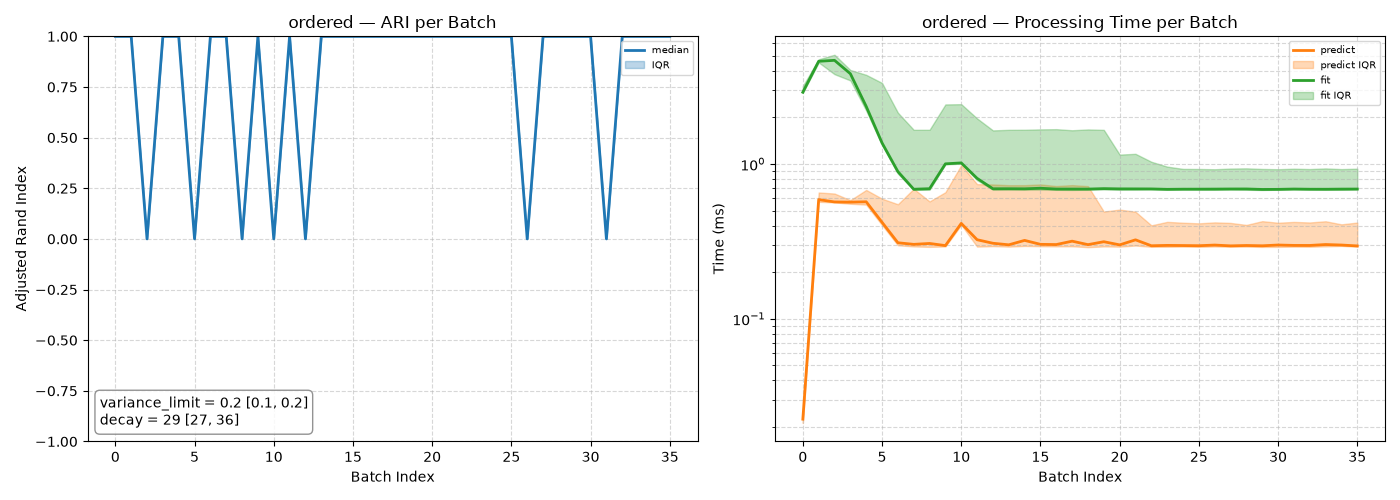
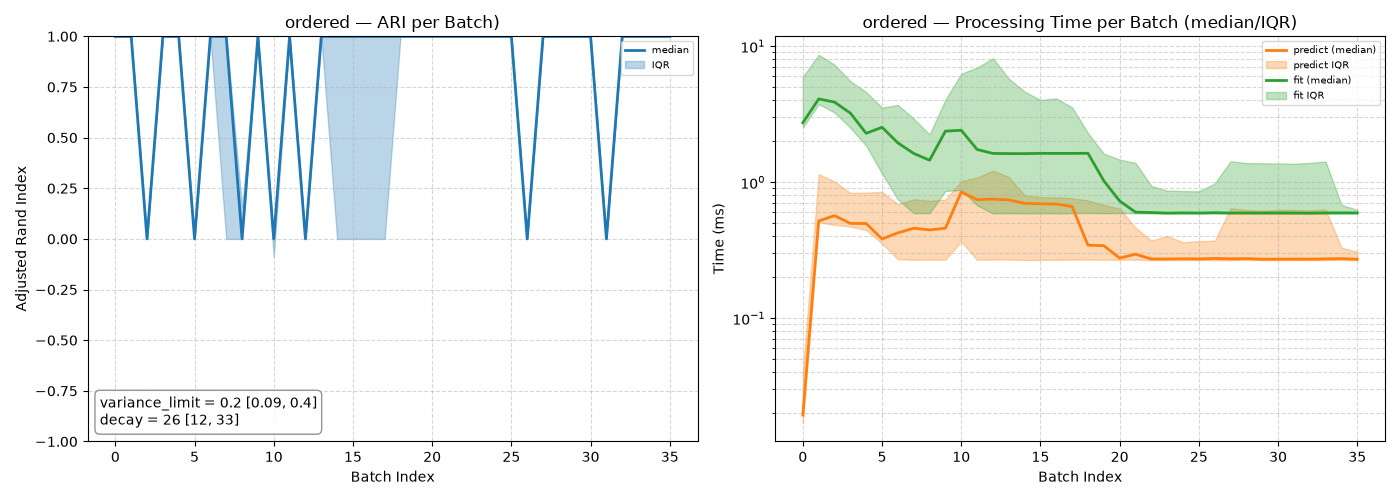
Update .gitignore and refine analysis script; adjust metrics visualization and improve documentation

diff --git a/monografia/MethodologyReassessment/MethodologyReassessment.tex b/monografia/MethodologyReassessment/MethodologyReassessment.tex
@@ -490,7 +490,7 @@ The original \textbf{DS4} dataset is loaded from \url{https://raw.githubusercont
     \label{fig:raw_ds4}
 \end{figure}
 
-\cref{fig:raw_metrics} shows the evolution of the adjusted rand index and the execution time of the microTEDAclus model over 100-sample batches of the original \textbf{DS4} dataset. An ARI of 1.0 indicates perfect clustering, while an ARI of 0.0 indicates random clustering. It is clear that, for the original dataset, the model's score is significantly lower than the one reported in the original work, kept around 0.25 throughout the entire stream. The time spent on the fitting stage is stable at nearly 200 milliseconds per batch, while the prediction stage's duration increases over time, reaching nearly 10 milliseconds per batch at the end of the stream.
+\cref{fig:raw_metrics} shows the evolution of the adjusted rand index and the execution time of the microTEDAclus model over 100-sample batches of the original \textbf{DS4} dataset. An ARI of 1.0 indicates perfect clustering, while an ARI of 0.0 indicates random clustering. It is clear that, for the original dataset, the model's score is significantly lower than the one reported in the original work, kept around 0.25 throughout the entire stream. The time spent on the fitting stage is stable at nearly 400 milliseconds per batch, while the prediction stage's duration increases over time, reaching nearly 20 milliseconds per batch at the end of the stream.
 
 \begin{figure}[thpb]
     \centering
@@ -510,7 +510,7 @@ The noise removal step is performed by filtering out the samples labeled as \tex
     \label{fig:noise_removed_ds4}
 \end{figure}
 
-\cref{fig:noise_removed_metrics} shows a slight increase in the ARI of the microTEDAclus model over the noise-removed dataset, which reaches nearly 0.5 from batches 10 to 20, but then drops to nearly 0.25 for the rest of the stream. The execution time is also slightly reduced, with the fit stage taking right under 200 milliseconds per batch and the prediction stage taking nearly 5 milliseconds per batch at the end of the stream.
+\cref{fig:noise_removed_metrics} shows a slight increase in the ARI of the microTEDAclus model over the noise-removed dataset, which reaches nearly 0.5 from batches 10 to 20, but then drops to nearly 0.25 for the rest of the stream. The execution time is also slightly reduced, with the fit stage 300 milliseconds per batch and the prediction stage taking nearly 10 milliseconds per batch at the end of the stream.
 
 \begin{figure}[thpb]
     \centering
@@ -532,7 +532,7 @@ Downsampling, on the other hand, does not necessarily constitute a form of data 
     \label{fig:downsampled_ds4}
 \end{figure}
 
-The curves in \cref{fig:downsampled_metrics} show that downsampling had little impact on the ARI of the microTEDAclus model, which slightly decreased to nearly 0.2. Simillarly, the execution time's upper bounds only slightly decreased.
+The curves in \cref{fig:downsampled_metrics} show that downsampling had negative impact on the ARI of the microTEDAclus model, which decreased to nearly 0.2. Execution time, however, is significantly reduced. Fitting is performed in approximately 200 milliseconds per batch, and prediction is performed in less than 5 milliseconds through the majority of the stream.
 
 \begin{figure}[thpb]
     \centering
@@ -559,7 +559,7 @@ The scaling step is performed by applying a min-max normalization to the feature
     \label{fig:scaled_metrics}
 \end{figure}
 
-\cref{fig:scaled_metrics} shows that scaling recovers the ARI of the microTEDAclus model to over 0.25 for most batches, and significantly reduces the execution time. Fitting is performed in approximately 10 milliseconds per batch, while prediction is performed in less than 2 milliseconds per batch. More importantly, scaling shifts the optimal parameter \texttt{variance\_limit} from $1 < r_0 < 10$ to $0.01 < r_0 < 0.1$. This contradicts the original work's claim that the model is robust to the choice of this parameter, since it is highly dependent on the scale of the data.
+\cref{fig:scaled_metrics} shows that scaling recovers the ARI of the microTEDAclus model to over 0.25 for most batches, and significantly reduces the execution time. Fitting is performed in approximately 20 milliseconds per batch, while prediction is performed in approximately2 milliseconds per batch. More importantly, scaling shifts the optimal parameter \texttt{variance\_limit} from $1 < r_0 < 10$ to $0.01 < r_0 < 0.1$. This contradicts the original work's claim that the model is robust to the choice of this parameter, since it is highly dependent on the scale of the data.
 
 Scalling is a common preprocessing step in machine learning, and it is expected to be performed in any real-world application of the microTEDAclus model. However, it is important to note that the way it is performed in the original work's experiments, in which the minimum and maximum values of the features are computed over the entire dataset, constitutes a form of data leakage.
 

diff --git a/experimentos/preprocessing/analyze_preprocessing_results.py b/experimentos/preprocessing/analyze_preprocessing_results.py
@@ -5,15 +5,12 @@ Preprocessing-impact experiment — ANALYSIS stage.
 
 Loads the per-run results persisted by run_preprocessing_experiment.py from
 ./results/ (one CSV of per-batch curves + one params JSON per (stage, run))
-and, for each stage, produces two separate metric figures — one per
-statistical pair, as in the earlier convergence-investigation scripts:
+and, for each stage, produces one metric figure:
 
-    {stage}_metrics_medianiqr.png   median line + IQR (Q1-Q3) band
-    {stage}_metrics_meanstd.png     mean line + mean +/- std band
+    {stage}_metrics.png   median line + IQR (Q1-Q3) band
 
-No combined figure is produced; the two pairs are kept in separate plots.
 Tuned-hyperparameter summaries (median [Q1,Q3] for numeric, mode for
-categorical) are shown as text on both figures.
+categorical) are shown as text on the figure.
 """
 
 import glob
@@ -91,7 +88,7 @@ def load_stage(stage):
 
 
 # --------------------------------------------------------------------------
-# Aggregation — both statistical pairs
+# Aggregation
 # --------------------------------------------------------------------------
 def aggregate_curves_medianiqr(arr_list):
     """arr_list: list of 1D arrays of equal length (may contain NaNs for
@@ -103,17 +100,6 @@ def aggregate_curves_medianiqr(arr_list):
         q1 = np.nanpercentile(stacked, 25, axis=0)
         q3 = np.nanpercentile(stacked, 75, axis=0)
     return median, q1, q3
-
-
-def aggregate_curves_meanstd(arr_list):
-    """arr_list: list of 1D arrays of equal length (may contain NaNs for
-    failed runs). Returns (mean, mean-std, mean+std) along the run axis,
-    ignoring NaNs."""
-    stacked = np.vstack(arr_list)
-    with np.errstate(all="ignore"):
-        mean = np.nanmean(stacked, axis=0)
-        std = np.nanstd(stacked, axis=0, ddof=1)
-    return mean, mean - std, mean + std
 
 
 def aggregate_params(params_runs):
@@ -154,25 +140,24 @@ def format_params_text(param_summary, n_valid, n_runs):
 
 
 # --------------------------------------------------------------------------
-# Plotting — one figure per statistical pair
+# Plotting
 # --------------------------------------------------------------------------
 def _plot_metrics(
-    center_label,
     ari_stats,
     t_predict_stats,
     t_fit_stats,
     params_text,
     stage,
     out_dir,
-    suffix,
 ):
-    """center_label: 'median' or 'mean'; *_stats: (center, lower, upper) tuples."""
+    """*_stats: (median, q1, q3) tuples."""
     ari_c, ari_lo, ari_hi = ari_stats
     tp_c, tp_lo, tp_hi = t_predict_stats
     tf_c, tf_lo, tf_hi = t_fit_stats
     batches = np.arange(len(ari_c))
 
-    band_label = "IQR" if center_label == "median" else "mean +/- std"
+    center_label = "median"
+    band_label = "IQR"
 
     fig, axes = plt.subplots(1, 2, figsize=(14, 5))
 
@@ -180,7 +165,7 @@ def _plot_metrics(
     axes[0].fill_between(
         batches, ari_lo, ari_hi, color="tab:blue", alpha=0.3, label=band_label
     )
-    axes[0].set_title(f"{stage} — ARI per Batch ({center_label}/{band_label})")
+    axes[0].set_title(f"{stage} — ARI per Batch)")
     axes[0].set_xlabel("Batch Index")
     axes[0].set_ylabel("Adjusted Rand Index")
     axes[0].set_ylim(-1.0, 1.0)
@@ -230,33 +215,18 @@ def _plot_metrics(
     axes[1].grid(True, which="both", linestyle="--", alpha=0.5)
 
     plt.tight_layout()
-    fig.savefig(os.path.join(out_dir, f"{stage}_metrics_{suffix}.png"))
+    fig.savefig(os.path.join(out_dir, f"{stage}_metrics.png"))
     plt.close(fig)
 
 
-def plot_metrics_medianiqr(ari_runs, tp_runs, tf_runs, params_text, stage, out_dir):
+def plot_metrics(ari_runs, tp_runs, tf_runs, params_text, stage, out_dir):
     _plot_metrics(
-        "median",
         aggregate_curves_medianiqr(ari_runs),
         aggregate_curves_medianiqr(tp_runs),
         aggregate_curves_medianiqr(tf_runs),
         params_text,
         stage,
         out_dir,
-        suffix="medianiqr",
-    )
-
-
-def plot_metrics_meanstd(ari_runs, tp_runs, tf_runs, params_text, stage, out_dir):
-    _plot_metrics(
-        "mean",
-        aggregate_curves_meanstd(ari_runs),
-        aggregate_curves_meanstd(tp_runs),
-        aggregate_curves_meanstd(tf_runs),
-        params_text,
-        stage,
-        out_dir,
-        suffix="meanstd",
     )
 
 
@@ -278,10 +248,7 @@ def main():
             print(f"[{stage}] All trials pruned in every run — skipping plots.")
             continue
 
-        plot_metrics_medianiqr(
-            ari_runs, tp_runs, tf_runs, params_text, stage, PLOTS_DIR
-        )
-        plot_metrics_meanstd(ari_runs, tp_runs, tf_runs, params_text, stage, PLOTS_DIR)
+        plot_metrics(ari_runs, tp_runs, tf_runs, params_text, stage, PLOTS_DIR)
 
         print(
             f"[{stage}] {len(ari_runs)} runs loaded ({n_valid} valid) — plots written."
